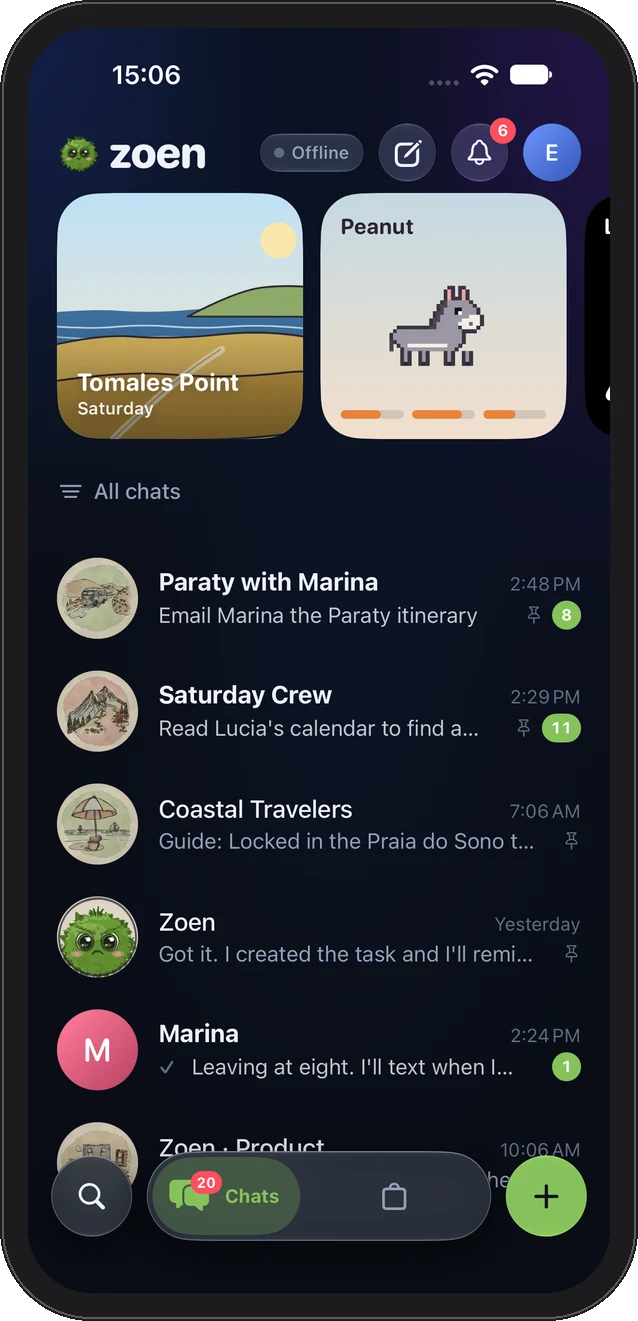
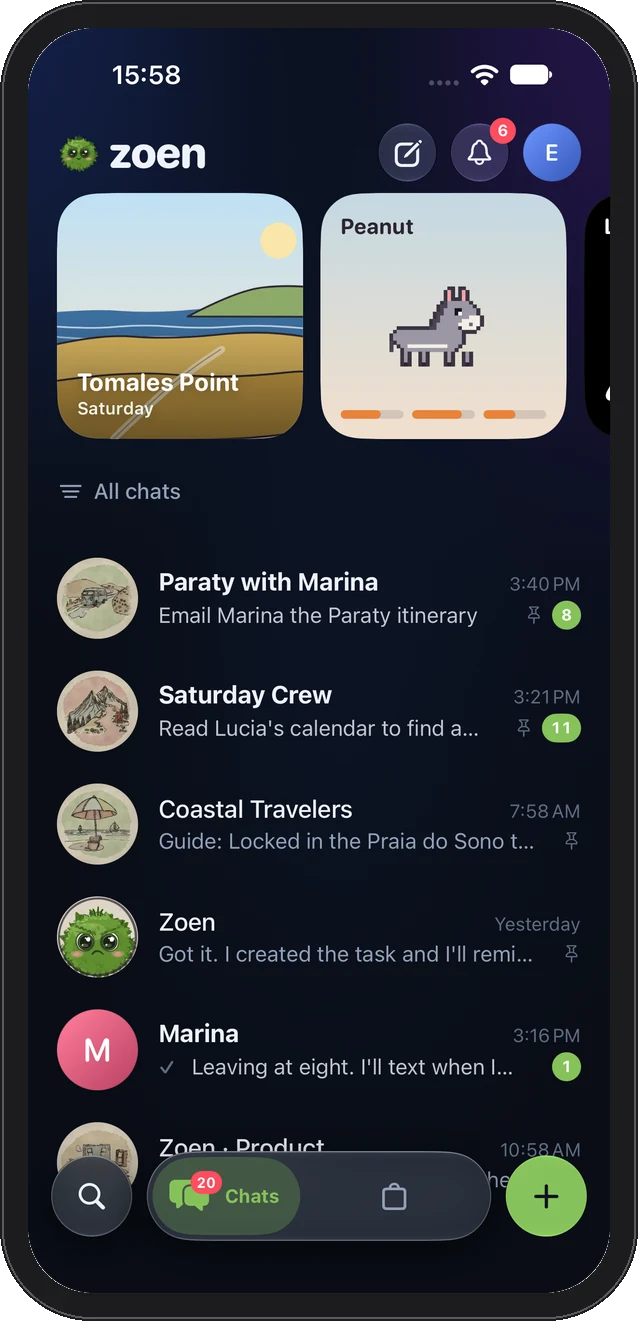
docs: Pause sky clear of the hero on phones, chats shot without the Offline badge, Agenda booking shots; drop onboarding-dark (app forces light)

diff --git a/docs-site/src/styles/custom.css b/docs-site/src/styles/custom.css
@@ -192,3 +192,10 @@ body { background: transparent; }
 }
 .zoen-sky-toggle:focus-visible { outline: 2px solid var(--sl-color-text-accent); outline-offset: 2px; }
 @media print { .zoen-sky-toggle { display: none; } }
+/* Phones: the button leaves the bottom corner (where it covered the hero heading) and sits in the
+ * strip of sky just under the header, scrolling away with the page. */
+@media (max-width: 50rem) {
+  .zoen-sky-toggle { position: absolute; top: calc(var(--sl-nav-height) + 0.5rem); bottom: auto; right: 0.75rem; padding: 0.4rem 0.65rem; font-size: 0.75rem; }
+  [data-has-hero] .hero { margin-top: 3rem; }
+  :root:not([data-has-hero]) .main-frame { padding-top: calc(var(--sl-nav-height) + 2.6rem); }
+}

diff --git a/README.md b/README.md
@@ -45,6 +45,7 @@ The first release is built around one end-to-end journey. Bruno, a barber, descr
   <tr>
     <td align="center"><img src="docs/screens/iphone/approvals-light.webp" width="240" alt="Owner notes on iPhone: the agent asks for approval" /><br/><sub>“Your agent needs you”</sub></td>
     <td align="center"><img src="docs/screens/iphone/approvals-dark.webp" width="240" alt="The same owner notes in dark mode" /><br/><sub>The same cards in dark mode</sub></td>
+    <td align="center"><img src="docs/screens/iphone/agenda-light.webp" width="240" alt="Bruno's booking page: a haircut request from Marina waiting for Confirm" /><br/><sub>Bookings come in</sub></td>
   </tr>
 </table>
 
